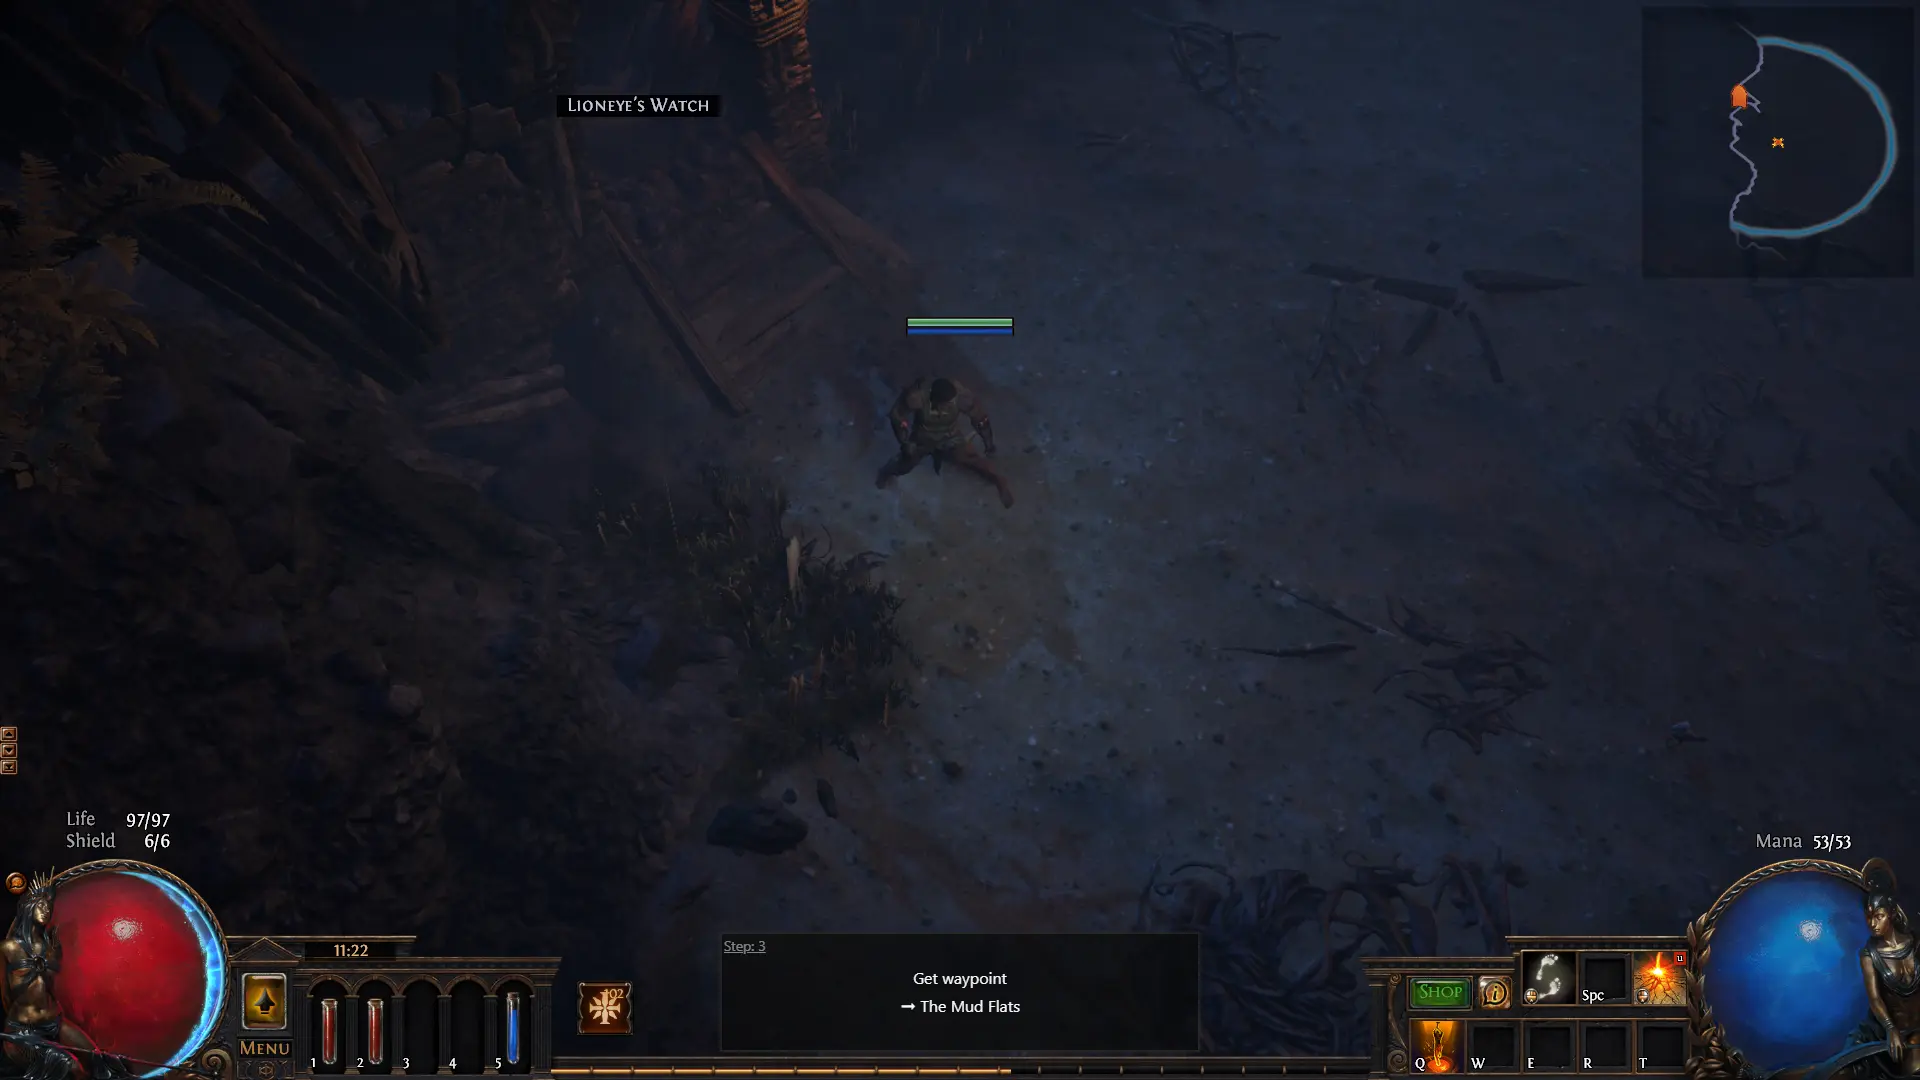
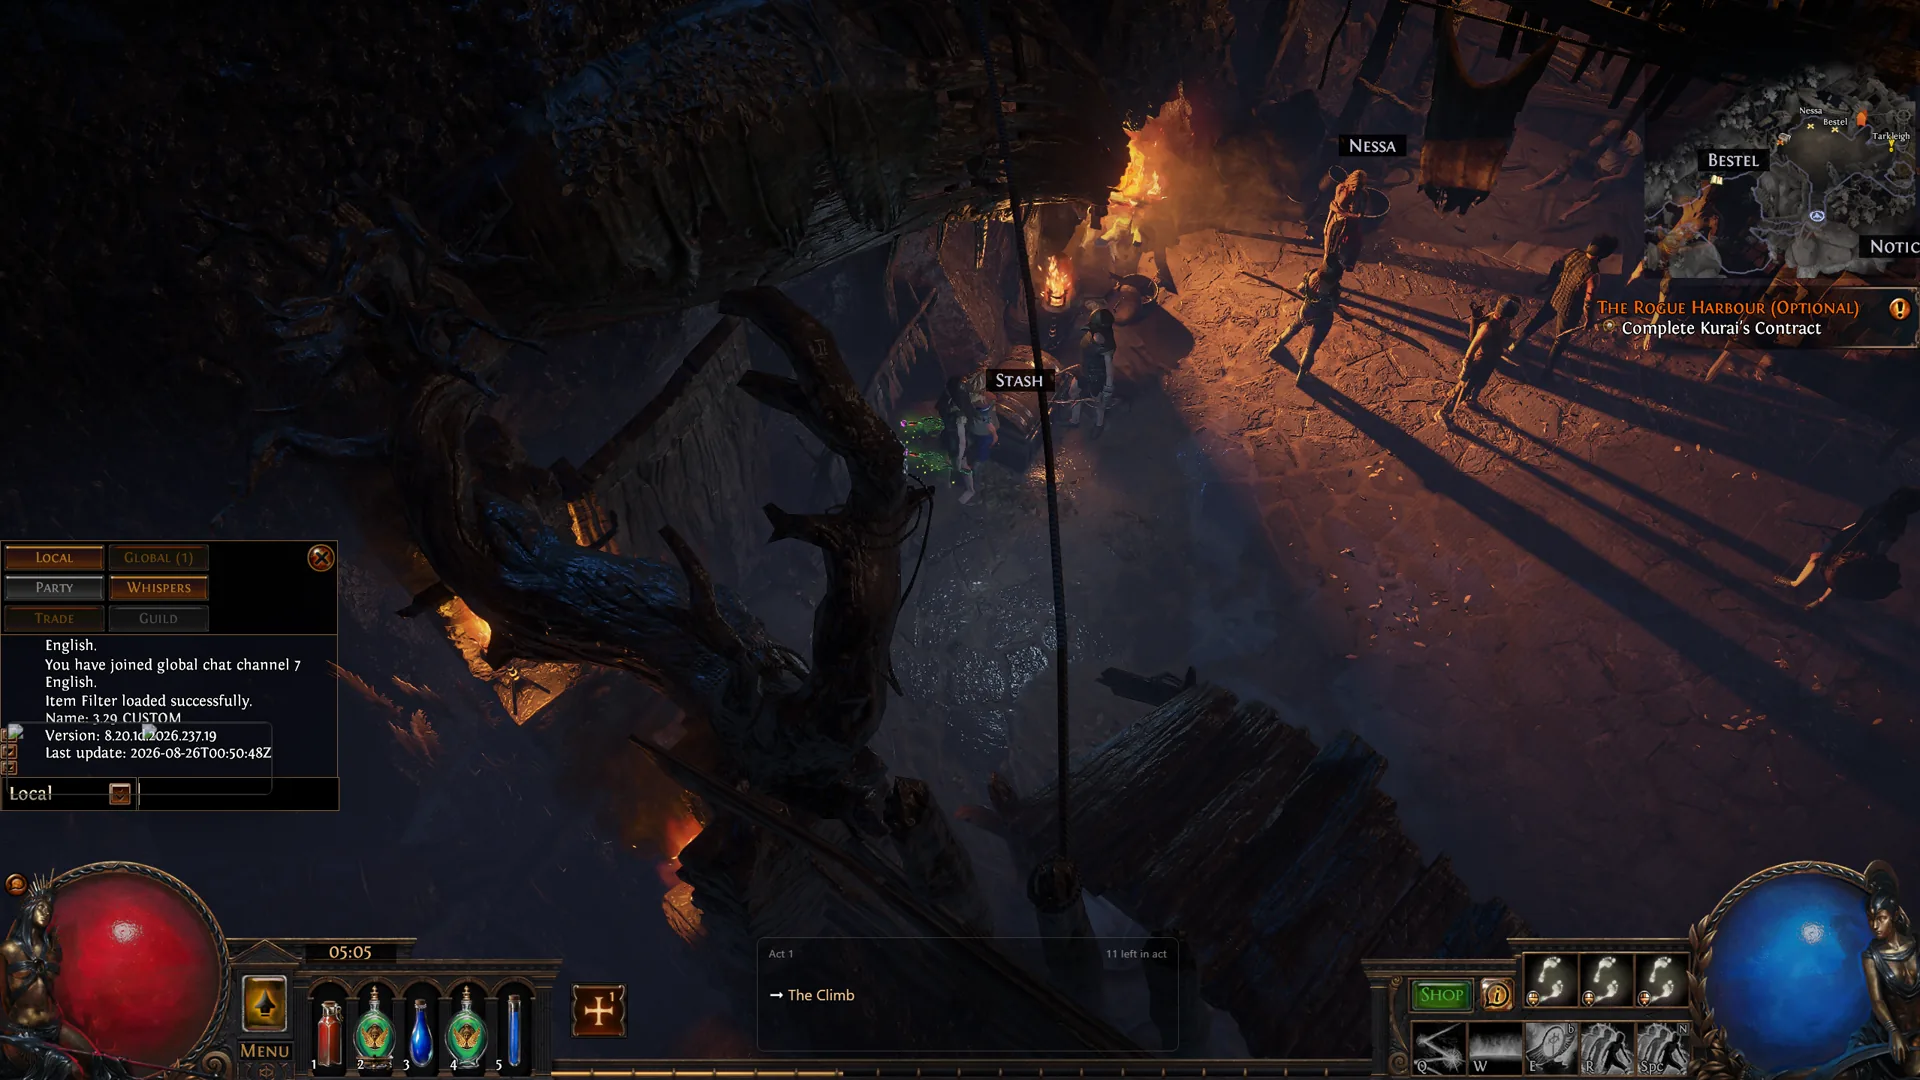
Follow the leveling app to the walkthrough it loads itself
The app no longer takes an imported build: the Exile Leveling walkthrough
comes down on first start and keeps itself current, the path to Client.txt
is read out of the running client, and there is a fourth hotkey for moving
the overlay. The page says all of that instead of what it used to.

The line under the button goes with it, and the screenshot is the overlay
as it looks now.

Claude-Session: https://claude.ai/code/session_01AwBeprHjQ7NkNFKojFaUZX

diff --git a/src/app/[league]/leveling/page.tsx b/src/app/[league]/leveling/page.tsx
@@ -45,8 +45,7 @@ export default async function Page({ params }: PageProps<"/[league]/leveling">) 
               PoE Leveling Guide
             </h1>
             <p className="text-muted-foreground max-w-2xl">
-              An overlay for Path of Exile 1 that keeps the next leveling step
-              on screen while you play. Import a route from{" "}
+              An overlay for Path of Exile 1. The walkthrough from{" "}
               <a
                 href="https://heartofphos.github.io/exile-leveling/"
                 target="_blank"
@@ -55,15 +54,15 @@ export default async function Page({ params }: PageProps<"/[league]/leveling">) 
               >
                 Exile Leveling
               </a>{" "}
-              once, and the app turns the page itself: it watches the zone
-              changes your client writes to{" "}
-              <code className="text-foreground">Client.txt</code> and advances
-              the step when you arrive.
+              sits in the game window, and the step turns itself: the app
+              watches the zone changes your client writes to{" "}
+              <code className="text-foreground">Client.txt</code> and moves on
+              when you arrive.
             </p>
           </div>
         </header>
 
-        <section className="mt-8 flex flex-wrap items-center gap-x-4 gap-y-3">
+        <div className="mt-8">
           <a
             href={LEVELING_APP.setup}
             className="bg-primary text-primary-foreground hover:bg-primary/85 inline-flex h-12 items-center gap-2.5 rounded-lg px-6 text-base font-medium transition-colors"
@@ -71,13 +70,7 @@ export default async function Page({ params }: PageProps<"/[league]/leveling">) 
             <Download className="size-5 shrink-0" />
             Download for Windows
           </a>
-          <p className="text-muted-foreground text-sm">
-            {LEVELING_APP.version} installer, {LEVELING_APP.size}. Installs per
-            user into <code className="text-foreground">%LocalAppData%</code>,
-            so Windows never asks for admin rights. Updates after that are the
-            app&rsquo;s own job.
-          </p>
-        </section>
+        </div>
 
         <p className="text-muted-foreground mt-3 flex flex-wrap gap-x-4 gap-y-1 text-sm">
           <a
@@ -121,7 +114,7 @@ export default async function Page({ params }: PageProps<"/[league]/leveling">) 
                     </span>{" "}
                     {step.detail}
                     {step.code && (
-                      <code className="border-border/60 bg-secondary/40 text-foreground mt-1.5 block overflow-x-auto rounded border px-2 py-1 font-mono text-xs whitespace-nowrap">
+                      <code className="border-border/60 bg-secondary/40 text-foreground mt-1.5 block rounded border px-2 py-1 font-mono text-xs break-all">
                         {step.code}
                       </code>
                     )}
@@ -148,9 +141,9 @@ export default async function Page({ params }: PageProps<"/[league]/leveling">) 
               ))}
             </dl>
             <p className="text-muted-foreground mt-4 text-sm">
-              The steps are click-through, so the bar sits over the game without
-              taking anything the game wanted. Most of the time it advances on
-              its own, and the arrows are there for the zones it cannot see.
+              Position, size and opacity are in the settings. Updates need
+              nothing from you: a new version is fetched in the background and
+              installed the next time you start.
             </p>
           </section>
         </div>
@@ -158,7 +151,7 @@ export default async function Page({ params }: PageProps<"/[league]/leveling">) 
         <section className="mt-10">
           <Image
             src="/poe_leveling_guide_ingame.webp"
-            alt="The step bar over Path of Exile, showing 'Get waypoint, The Mud Flats' above the hotbar."
+            alt="The overlay in the game window, showing 'Act 1, 11 left in act' above the next step, The Climb."
             width={1920}
             height={1080}
             className="border-border/60 h-auto w-full rounded-lg border"
@@ -166,8 +159,7 @@ export default async function Page({ params }: PageProps<"/[league]/leveling">) 
         </section>
 
         <p className="text-muted-foreground mt-8 max-w-2xl text-sm">
-          Tauri, React and TypeScript, MIT licensed. The app started as a fork
-          of{" "}
+          Tauri, React and TypeScript, MIT licensed. It started from{" "}
           <a
             href="https://github.com/Kazte/path-of-levelling"
             target="_blank"

diff --git a/src/lib/leveling-app.ts b/src/lib/leveling-app.ts
@@ -12,8 +12,6 @@ const asset = (name: string) =>
 
 export const LEVELING_APP = {
   version: RELEASE,
-  /** The installer, rounded the way a download page rounds it. */
-  size: "11.8 MB",
   setup: asset("PoELevelingGuide-win-Setup.exe"),
   portable: asset("PoELevelingGuide-win-Portable.zip"),
   repo: "https://github.com/mkj777/poe-leveling-app",
@@ -21,40 +19,43 @@ export const LEVELING_APP = {
 } as const;
 
 /**
- * The default install of Path of Exile, which is where the log is for most.
+ * The default install of Path of Exile. Only needed when the app cannot read
+ * the path out of a running client, which is the one thing that can go wrong.
  * Raw, because every separator in a Windows path is an escape otherwise.
  */
 const CLIENT_TXT = String.raw`C:\Program Files (x86)\Grinding Gear Games\Path of Exile\logs\Client.txt`;
 
-/** One numbered step, and the path or menu item it ends on, if it has one. */
+/** One numbered step, and the path it ends on, if it has one. */
 export type SetupStep = { title: string; detail: string; code?: string };
 
 export const LEVELING_SETUP: readonly SetupStep[] = [
   {
     title: "Run the installer.",
-    detail: "No admin rights, and the app updates itself from then on.",
+    detail: "It installs for your user only, so there is no admin prompt.",
   },
   {
-    title: "Point it at Client.txt.",
-    detail: "The zone changes it reads are written to that log. Usually:",
+    title: "Start the game, then the app.",
+    detail:
+      "It reads the path to Client.txt out of the running client. If the game is not up it stays on \u201cClient.txt not found\u201d and you can pick the file yourself, usually:",
     code: CLIENT_TXT,
   },
   {
-    title: "Place the steps window.",
-    detail: "Wherever it does not cover anything you look at mid fight.",
+    title: "Wait for the walkthrough.",
+    detail:
+      "It comes from Exile Leveling, so the first start needs the internet. After that it is local and keeps itself current. There is no build to import.",
   },
   {
-    title: "Build a route on Exile Leveling.",
-    detail: "Pick the acts, gems and gear you want, then copy the build.",
-  },
-  {
-    title: "Menu, then Load from Clipboard.",
-    detail: "That is the whole import. Hit Start and play.",
+    title: "Click Start.",
+    detail: "The overlay lays itself into the game window and follows it.",
   },
 ] as const;
 
 export const LEVELING_HOTKEYS = [
-  { keys: "Ctrl + Shift + Alt + F12", does: "Show or hide the overlay" },
+  {
+    keys: "Ctrl + Shift + Alt + F12",
+    does: "Close the overlay, back to the main window",
+  },
   { keys: "Ctrl + Shift + Alt + →", does: "Next step" },
   { keys: "Ctrl + Shift + Alt + ←", does: "Previous step" },
+  { keys: "Ctrl + Shift + Alt + O", does: "Move the overlay, on and off" },
 ] as const;

diff --git a/test/leveling-app.test.ts b/test/leveling-app.test.ts
@@ -17,7 +17,7 @@ test("every download points at the release the page names", () => {
 });
 
 test("the setup is the whole way from installer to first step", () => {
-  assert.equal(LEVELING_SETUP.length, 5);
+  assert.equal(LEVELING_SETUP.length, 4);
   for (const step of LEVELING_SETUP) {
     assert.ok(step.title.length > 0);
     assert.ok(step.detail.length > 0);
@@ -25,7 +25,7 @@ test("the setup is the whole way from installer to first step", () => {
 });
 
 test("every hotkey is the chord the app listens for", () => {
-  assert.equal(LEVELING_HOTKEYS.length, 3);
+  assert.equal(LEVELING_HOTKEYS.length, 4);
   for (const hotkey of LEVELING_HOTKEYS) {
     assert.match(hotkey.keys, /^Ctrl \+ Shift \+ Alt \+ /, hotkey.does);
   }

diff --git a/README.md b/README.md
@@ -17,10 +17,11 @@ you are looking at, so the link lands where you already are.
 
 The one exception to that rule is
 [PoE Leveling Guide](https://github.com/mkj777/poe-leveling-app), because it is
-ours: an overlay that keeps the next step of an
-[Exile Leveling](https://heartofphos.github.io/exile-leveling/) route on screen
-and advances it off the zone changes the client writes to `Client.txt`. The tab
-is a download page for the Windows installer, plus the setup and the hotkeys.
+ours: an overlay that puts the
+[Exile Leveling](https://heartofphos.github.io/exile-leveling/) walkthrough in
+the game window and turns the step off the zone changes the client writes to
+`Client.txt`. The tab is a download page for the Windows installer, plus the
+setup and the hotkeys.
 
 Which release it hands out lives in `src/lib/leveling-app.ts`: one constant,
 which both the installer and the portable zip are built from, so a new version
